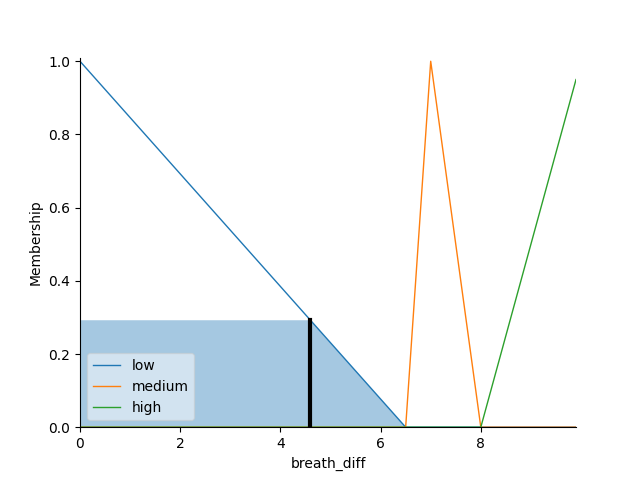
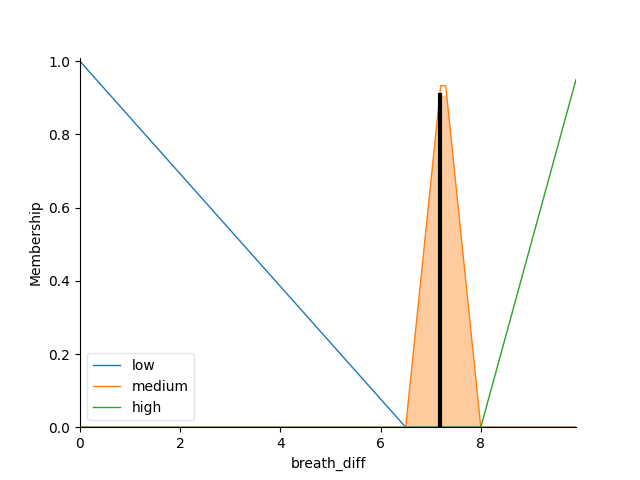
membership function values are edited

Changed region(s): [[0.125, 0.125, 0.75, 0.9062]]

diff --git a/app/helper/mf.py b/app/helper/mf.py
@@ -1,6 +1,7 @@
 import numpy as np
 import skfuzzy as fuzz
 from skfuzzy import control as ctrl
+
 from app.helper.skfuzzy_mp import view
 class MF():
 
@@ -13,20 +14,20 @@ class MF():
     fever = ctrl.Antecedent(np.arange(0, 10, 0.1), 'fever')
 
     fever['low'] = fuzz.trimf(fever.universe,[0,0,2.65])
-    fever['medium'] = fuzz.trimf(fever.universe,[2.65,5,7])
+    fever['medium'] = fuzz.trimf(fever.universe,[2.65,4.82,7])
     fever['high'] = fuzz.trimf(fever.universe,[5,10,10])
 
     breath_diff = ctrl.Antecedent(np.arange(0, 10, 0.1), 'breath_diff')
 
-    breath_diff['low'] = fuzz.trimf(fever.universe,[0,0,6.50])
-    breath_diff['medium'] = fuzz.trimf(fever.universe,[6.50,7,8])
-    breath_diff['high'] = fuzz.trimf(fever.universe,[8,10,10])
+    breath_diff['low'] = fuzz.trimf(breath_diff.universe,[0,0,6.50])
+    breath_diff['medium'] = fuzz.trimf(breath_diff.universe,[6.50,7.25,8])
+    breath_diff['high'] = fuzz.trimf(breath_diff.universe,[8,10,10])
 
     pain = ctrl.Antecedent(np.arange(0, 10, 0.1), 'pain')
 
-    pain['low'] = fuzz.trimf(fever.universe,[0,0,7.20])
-    pain['medium'] = fuzz.trimf(fever.universe,[7.20,8,8.20])
-    pain['high'] = fuzz.trimf(fever.universe,[8.20,10,10])
+    pain['low'] = fuzz.trimf(pain.universe,[0,0,7.20])
+    pain['medium'] = fuzz.trimf(pain.universe,[7.20,7.70,8.20])
+    pain['high'] = fuzz.trimf(pain.universe,[8.20,10,10])
 
     output = ctrl.Consequent(np.arange(0, 10, 0.1), 'output')
 
@@ -50,6 +51,10 @@ class MF():
 
         # output
         result = covid_simulator.output['output']
+        """
+            Her seferinde grafiklerin oluşturulmasına gerek yok.
+            Oluşturulması gereken durumlar için config dosyası hazırlanabilir.
+        """
         view(MF.output,sim=covid_simulator,name="output")
         view(MF.cough,sim=covid_simulator,name="cough")
         view(MF.fever,sim=covid_simulator,name="fever")

diff --git a/app/src/views.py b/app/src/views.py
@@ -14,6 +14,7 @@ def main ():
 
     pain = st.slider('Ağrı Yoğunluğu', 0.0, 9.9, 0.0)
 
+    """
     age = st.slider('Yasiniz:', 1, 100, 25)
 
     polluted = st.checkbox('Hava kirliligi olan bir yerde mi yasiyorsun?')
@@ -27,6 +28,7 @@ def main ():
     respiratory = st.checkbox('Solunum ile ilgili bir hastaligin var mi?')
 
     immune = st.checkbox('Bagisiklik sistemin zayif mi?')
+    """
 
     calculate_risk = st.button('Hesapla ')
 
